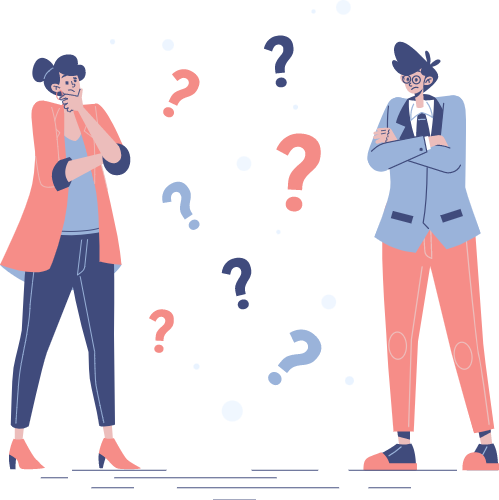
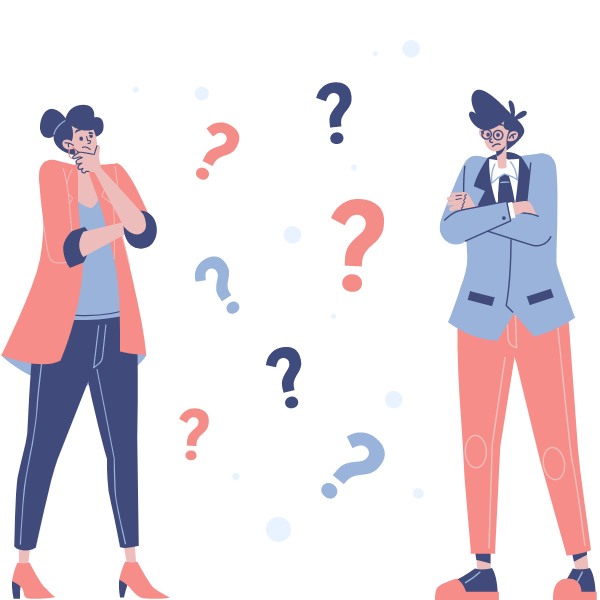
Responsive styles for thumbnails with updates to gradients and image optimization

diff --git a/styles/components/thumbnails/thumbnails.css.ts b/styles/components/thumbnails/thumbnails.css.ts
@@ -14,9 +14,9 @@ import chroma from "chroma-js";
 import { camelCase } from "lodash";
 
 const columBreaks = {
-  one: "800px",
+  one: "850px",
   two: "1200px",
-  three: "1840px",
+  three: "1500px",
 };
 
 const mediaQueries = {
@@ -50,8 +50,8 @@ const gradientGenerator = (
     .css("hsl")} ${stop1}, 
     ${colors.white.alpha(0).css("hsl")} ${stop2},
     ${colors.contrast
-      .mix(colors.brand, 0.12)
-      .alpha(0.3)
+      .mix(colors.brand, 0.1)
+      .alpha(0.12)
       .css("hsl")} ${stop3})` as csstype.Property.Background;
 };
 
@@ -94,6 +94,7 @@ const thumbnailStyles = {
         styles: {
           gridTemplateColumns: `1fr`,
           gridGap: "20px",
+          maxWidth: "600px",
         },
       },
     ]),
@@ -129,7 +130,10 @@ const thumbnailStyles = {
       {
         props: mediaQueries.oneColumn,
         styles: {
-          height: "100vw",
+          height: "50vh",
+          maxHeight: "500px",
+          width: "100%",
+          margin: "auto",
         },
       },
     ]),
@@ -143,12 +147,10 @@ const thumbnailStyles = {
     ...flexPosition.middleLeft(),
     position: "relative",
     backgroundColor: colors.brand.css(),
-    minHeight: "130px",
+    minHeight: "100px",
     zIndex: 1,
     ...paddings({
-      top: "25px",
-      bottom: "20px",
-      horizontal: "20px",
+      horizontal: "26px",
     }),
     selectors: {
       ["&:before"]: {
@@ -167,10 +169,20 @@ const thumbnailStyles = {
     fontSize: "30px",
     margin: 0,
     color: colors.white.css(),
+    paddingTop: "15px",
   }),
   link: style({}),
   illustration: style({
     position: "relative",
+    objectFit: "contain",
+  }),
+
+  illustrationContainer: style({
+    position: "absolute",
+    bottom: 0,
+    left: 0,
+    width: "100%",
+    height: "calc(100% - 30px)",
   }),
 
   illustrationFrame: style({
@@ -227,7 +239,7 @@ const thumbnailStyles = {
 
   // Articles
   articles_thumbnail: style({
-    width: "80%",
+    // width: "80%",
     ...absolutePosition.bottomRight("0", "30px"),
   }),
   articles_bg: style({
@@ -240,39 +252,39 @@ const thumbnailStyles = {
 
   // Academic
   academic_thumbnail: style({
-    width: "70%",
-    ...absolutePosition.bottomLeft("0", "30px"),
+    // width: "70%",
+    ...absolutePosition.bottomRight("0", "15%"),
   }),
   academic_bg: style({
     selectors: {
       ["&:before"]: {
-        background: gradientGenerator("55deg", "20%", "50%", "80%"),
+        background: gradientGenerator("-5deg", "20%", "50%", "80%"),
       },
     },
   }),
 
   // Creators
   creators_thumbnail: style({
-    width: "80%",
-    ...absolutePosition.topLeft("30px", "30px"),
+    // width: "80%",
+    ...absolutePosition.bottomLeft("0", "50%"),
   }),
   creators_bg: style({
     selectors: {
       ["&:before"]: {
-        background: gradientGenerator("55deg", "20%", "50%", "80%"),
+        background: gradientGenerator("200deg", "20%", "50%", "80%"),
       },
     },
   }),
 
   // Quora
   quora_thumbnail: style({
-    width: "80%",
-    ...absolutePosition.topLeft("30px", "30px"),
+    // width: "70%",
+    ...absolutePosition.bottomLeft("0", "50%"),
   }),
   quora_bg: style({
     selectors: {
       ["&:before"]: {
-        background: gradientGenerator("55deg", "20%", "50%", "80%"),
+        background: gradientGenerator("90deg", "30%", "40%", "60%"),
       },
     },
   }),
@@ -285,7 +297,7 @@ const thumbnailStyles = {
   communities_bg: style({
     selectors: {
       ["&:before"]: {
-        background: gradientGenerator("55deg", "20%", "50%", "80%"),
+        background: gradientGenerator("200deg", "0%", "50%", "100%"),
       },
     },
   }),
@@ -298,7 +310,7 @@ const thumbnailStyles = {
   links_bg: style({
     selectors: {
       ["&:before"]: {
-        background: gradientGenerator("55deg", "20%", "50%", "80%"),
+        background: gradientGenerator("250deg", "0%", "40%", "100%"),
       },
     },
   }),

diff --git a/styles/components/404.css.ts b/styles/components/404.css.ts
@@ -1,10 +1,7 @@
 import { ComplexStyleRule, style } from "@vanilla-extract/css";
 import { colors } from "../colors.css";
 import { roundButton } from "../helpers/effects";
-import {
-  IMediaQueryProps,
-  mediaQueryStyle,
-} from "../helpers/mediaQueries";
+import { IMediaQueryProps, mediaQueryStyle } from "../helpers/mediaQueries";
 import { flexPosition } from "../helpers/positioning";
 import { margins, paddings } from "../helpers/spacing";
 
@@ -27,6 +24,9 @@ const notFoundStyles = {
       vertical: "40px",
     }),
     minHeight: "600px",
+    background: `linear-gradient(0deg, ${colors.black
+      .alpha(0)
+      .css("hsl")} 0%, hsl(337deg 83% 14% / 40%) 100%)`,
   }),
   title: style({
     backgroundImage: `linear-gradient(87deg, ${colors.brand
@@ -65,6 +65,7 @@ const notFoundStyles = {
   }),
   backLink: style({
     ...(backStyles as ComplexStyleRule),
+    backgroundColor: colors.white.css(),
     marginTop: "30px",
   }),
   backText: style({

diff --git a/src/components/thumbnails/Thumbnail.tsx b/src/components/thumbnails/Thumbnail.tsx
@@ -58,20 +58,23 @@ export function Thumbnail(props: IProps) {
           </Link>
         </span>
         <span className={thumbnailStyles.illustrationFrame}>
-          <div
+          <span
             className={classNames(
               thumbnailStyles.illustrationBg,
               backgroundClass
             )}
           />
-          <img
-            className={classNames(
-              thumbnailStyles.illustration,
-              illustrationClass
-            )}
-            alt={alt}
-            src={illustrationSrc}
-          />
+          <span className={thumbnailStyles.illustrationContainer}>
+            <Image
+              layout="fill"
+              className={classNames(
+                thumbnailStyles.illustration,
+                illustrationClass
+              )}
+              alt={alt}
+              src={illustrationSrc}
+            />
+          </span>
         </span>
       </article>
     </div>

diff --git a/styles/components/scrollToTop.css.ts b/styles/components/scrollToTop.css.ts
@@ -1,5 +1,5 @@
-import { ComplexStyleRule, style } from "@vanilla-extract/css";
-import { absolutePosition, flexPosition } from "../helpers/positioning";
+import { style } from "@vanilla-extract/css";
+import { absolutePosition } from "../helpers/positioning";
 import { roundButton } from "../helpers/effects";
 import { calc } from "@vanilla-extract/css-utils";
 import { reducedMotion, ReducedMotion } from "../helpers/accessibility";

diff --git a/styles/components/layoutVars.css.ts b/styles/components/layoutVars.css.ts
@@ -9,6 +9,6 @@ export const layoutVars = {
   // Very tight padding
   compressed: {
     contentWidth: "800px",
-    contentPadding: "26px",
+    contentPadding: "16px",
   },
 };
